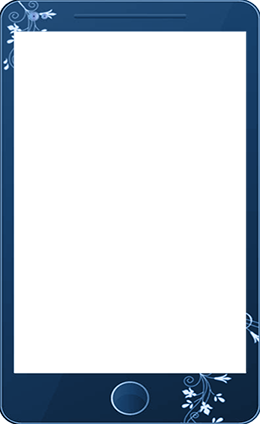
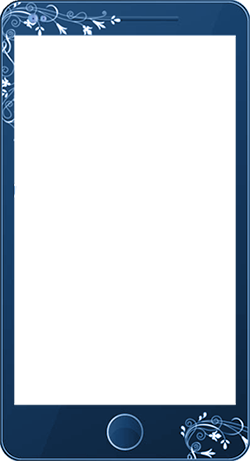
Test: SEO

Changed region(s): [[0.0, 0.0, 1.0, 1.0]]

diff --git a/src/components/Slider/Slider.tsx b/src/components/Slider/Slider.tsx
@@ -21,7 +21,6 @@ const Slider = ({ inData, inCurrentIdx, inPrevIdx, inNextIdx, inPrevCursor, inNe
 
     const themeContext = useContext(ThemeContext);
 
-
     const [srcImgDevice, setSrcImgDevice] = useState<string>(`./projects_img/covers/desktop/device_desktop.webp`);
     const [altImgDevice, setAltImgDevice] = useState<string>("Image desktop");
     const [windowWidth, setWindowWidth] = useState<number>(window.innerWidth);
@@ -61,35 +60,13 @@ const Slider = ({ inData, inCurrentIdx, inPrevIdx, inNextIdx, inPrevCursor, inNe
     useEffect(() => {
         setSrcImgDevice(`./projects_img/covers/${device}/device_${device}.webp`)
         setAltImgDevice(`Image ${device}`)
+    }, [device])
 
+    useEffect(() => {
+        setSrcImgDevice(`./projects_img/covers/${device}/device_${device}.webp`)
+        setAltImgDevice(`Image ${device}`)
 
-        if (location.pathname === "/projets") {
-            if (device === "mobile") {
-                const link = document.createElement('link');
-                link.rel = 'preload';
-                link.href = './projects_img/covers/mobile/device_mobile.webp';
-                link.as = 'image';
-                link.media = '(max-width: 768px)';
-                document.head.appendChild(link);
-
-            } else if (device === "tablette") {
-                const link = document.createElement('link');
-                link.rel = 'preload';
-                link.href = './projects_img/covers/tablette/device_tablette.webp';
-                link.as = 'image';
-                link.media = "(min-width: 769px) and (max-width: 992px)";
-                document.head.appendChild(link);
-            } else {
-                const link = document.createElement('link');
-                link.rel = 'preload';
-                link.href = './projects_img/covers/desktop/device_desktop.webp';
-                link.as = 'image';
-                link.media = '(min-width: 993px)';
-                document.head.appendChild(link);
-
-            }
-        }
-    }, [device, location.pathname])
+    }, [device])
 
 
     return (

diff --git a/src/components/Slider/Slider.module.scss b/src/components/Slider/Slider.module.scss
@@ -92,8 +92,8 @@
             @media screen and (max-width: variables.$breakpoint-mobile) {
                 position: absolute;
                 display: block;
-                top: 350px;
-                left: 98px;
+                top: 382px;
+                left: 90px;
                 z-index: 1;
                 font-size: 24px;
             }
@@ -214,10 +214,10 @@
     }
 
     @media screen and (max-width: variables.$breakpoint-mobile) {
-        width: 260px;
-        height: 424px;
+        width: 250px;
+        height: 461px;
         top:-30px;
-        left: -13px;
+        left: -15px;
     }
 
     & img{

diff --git a/src/sass/utils/_variables.scss b/src/sass/utils/_variables.scss
@@ -140,8 +140,8 @@ $minWidth : 768px;
 // -- Image Size -- //
 /********************/
 // -- Component Slider images projets
-$width_img_cover_slider_mobile: 235px;
-$height_img_cover_slider_mobile: 350px;
+$width_img_cover_slider_mobile: 219px;
+$height_img_cover_slider_mobile: 375px;
 $width_img_cover_slider_tablette: 400px;
 $height_img_cover_slider_tablette: 228px;
 $width_img_cover_slider_desktop: 450px;

diff --git a/src/pages/Projets/Projets.module.scss b/src/pages/Projets/Projets.module.scss
@@ -25,7 +25,7 @@
         }
     
         @media screen and (max-width: variables.$breakpoint-mobile) {
-            top: 465px;
+            top: 490px;
         }
     }
 
